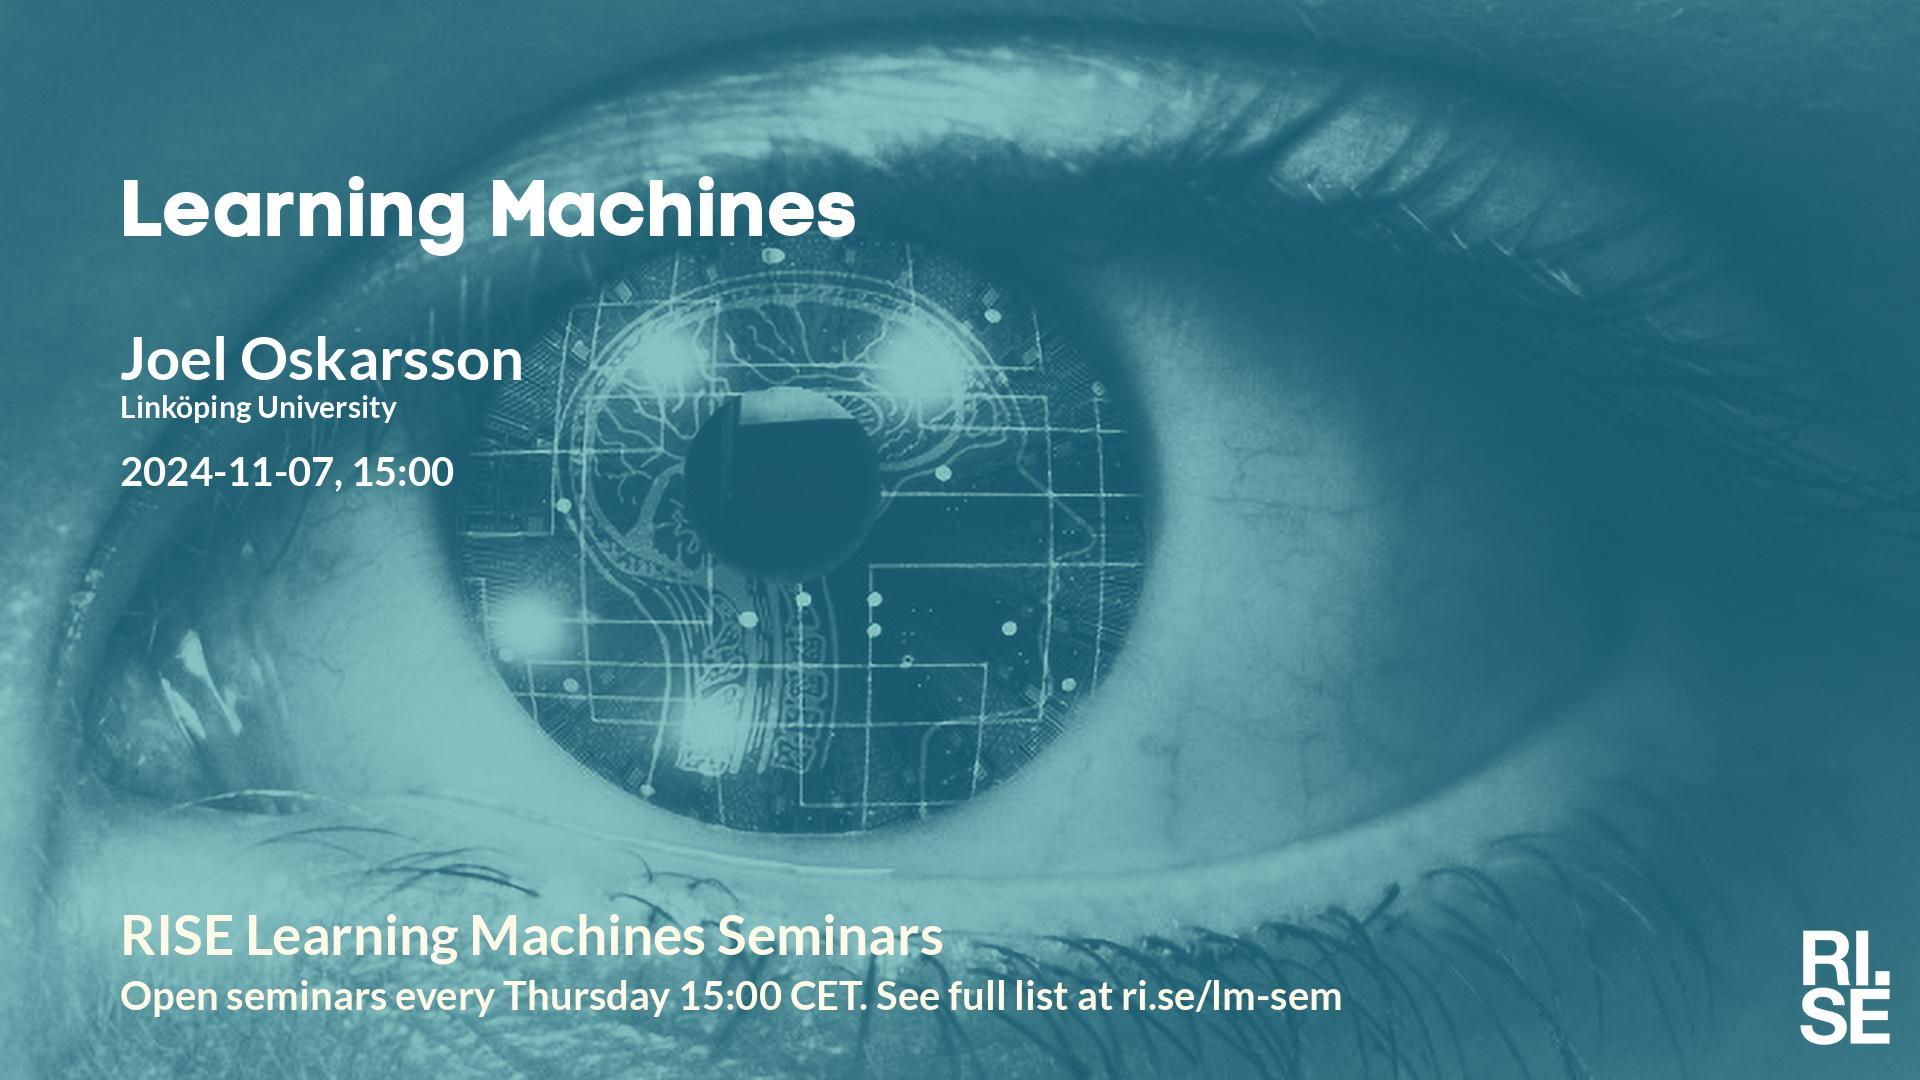
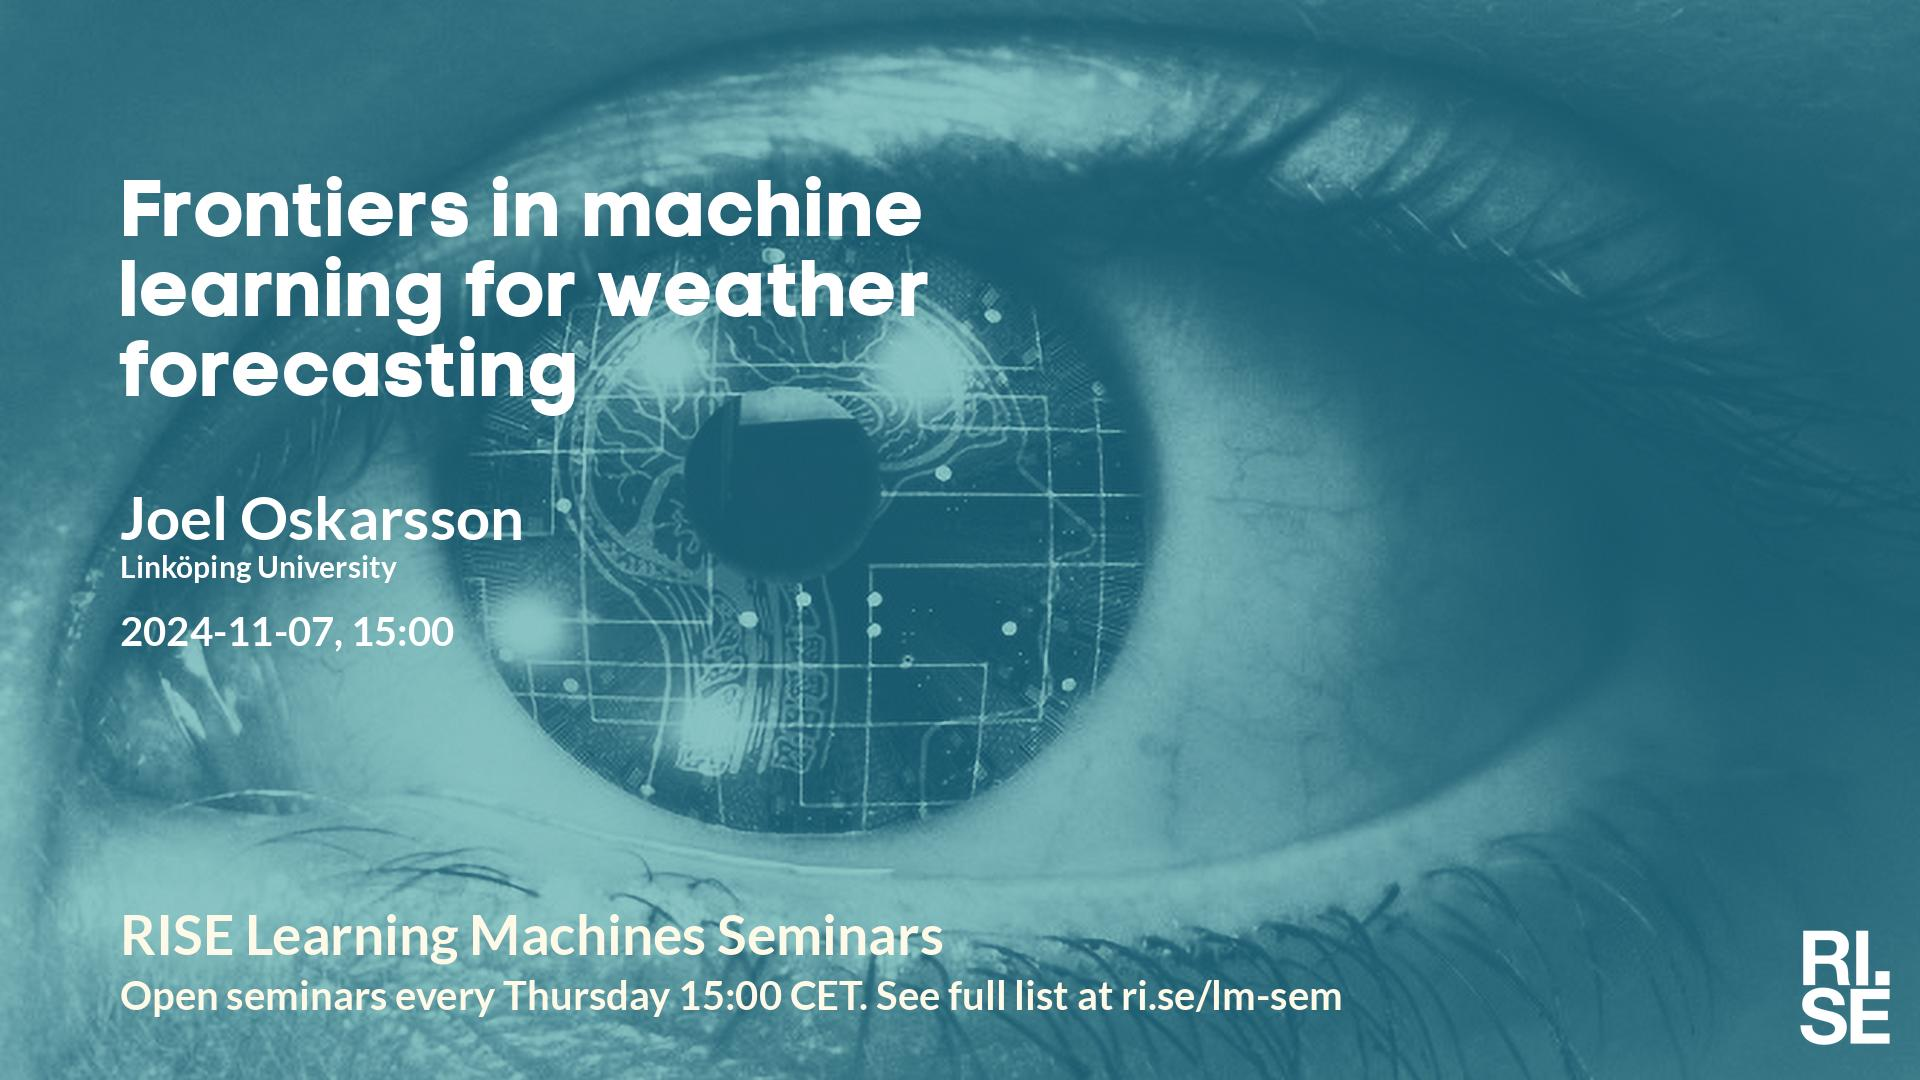
Updated plan on web site.

Changed region(s): [[0.0625, 0.1528, 0.5, 0.6111]]

diff --git a/lm/index.md b/lm/index.md
@@ -5,18 +5,17 @@ metatags: "<meta name=\"robots\" content=\"noindex,nofollow\" />"
 <style type="text/css" scoped>
 td, th {border: 1px solid #ccc; padding: 0.6em;}
 table {border-collapse: collapse;}
-</style># Learning Machines Plan 2024-10-08
+</style># Learning Machines Plan 2024-10-14
 
 | date | speaker                                   | photo | shareable | meeting backdrop | youtube thumbnail | <a title="Speaker, Title, Abstract, Bio, Photo. Strikethrough means we don't have it yet.">comment</a>        |
 | ---- | ----------------------------------------- | ----- | ----- | ----- | ----- | -------------- |
-|  2024-09-19  |  [Mélisande Teng, MILA and Universite de Montreal](2024-09-19.md)  |  [photo](photo-melisande-teng.jpg)  |  [social media ](social-media-melisande-teng.jpg)  |  [meeting backdrop ](meeting-backdrop-melisande-teng.jpg)  |  [youtube thumbnail ](youtube-thumbnail-melisande-teng.jpg)  |  STABP  |
 |  2024-09-26  |  [Charlie Fieseler, University of Vienna](2024-09-26.md)  |  [photo](photo-charlie-fieseler.jpg)  |  [social media ](social-media-charlie-fieseler.jpg)  |  [meeting backdrop ](meeting-backdrop-charlie-fieseler.jpg)  |  [youtube thumbnail ](youtube-thumbnail-charlie-fieseler.jpg)  |  STABP  |
 |  2024-10-03  |  [Jakob Ambsdorf, University of Copenhagen & Pioneer Centre for AI](2024-10-03.md)  |  [photo](photo-jakob-ambsdorf.jpg)  |  [social media ](social-media-jakob-ambsdorf.jpg)  |  [meeting backdrop ](meeting-backdrop-jakob-ambsdorf.jpg)  |  [youtube thumbnail ](youtube-thumbnail-jakob-ambsdorf.jpg)  |  STABP  |
 | <span style="color:red"> 2024-10-10 </span> | <span style="color:red"> CANCELLED </span> | <span style="color:red">  </span> | <span style="color:red">  </span> | <span style="color:red">  </span> | <span style="color:red">  </span> | <span style="color:red"> CANCELLED </span> |
 |  2024-10-17  |  [Matthias Obst, University of Gothenburg](2024-10-17.md)  |  [photo](photo-matthias-obst.jpg)  |  [social media ](social-media-matthias-obst.jpg)  |  [meeting backdrop ](meeting-backdrop-matthias-obst.jpg)  |  [youtube thumbnail ](youtube-thumbnail-matthias-obst.jpg)  |  STABP  |
 |  2024-10-24  |  [Ankit Kariryaa, University of Copenhagen](2024-10-24.md)  |    |  [social media ](social-media-ankit-kariryaa.jpg)  |  [meeting backdrop ](meeting-backdrop-ankit-kariryaa.jpg)  |  [youtube thumbnail ](youtube-thumbnail-ankit-kariryaa.jpg)  |  STAB~~P~~  |
 | <span style="color:red"> 2024-10-31 </span> | <span style="color:red"> Höstlov </span> | <span style="color:red">  </span> | <span style="color:red">  </span> | <span style="color:red">  </span> | <span style="color:red">  </span> | <span style="color:red"> CANCELLED </span> |
-|  2024-11-07  |  [Joel Oskarsson, Linköping University](2024-11-07.md)  |    |  [social media ](social-media-joel-oskarsson.jpg)  |  [meeting backdrop ](meeting-backdrop-joel-oskarsson.jpg)  |  [youtube thumbnail ](youtube-thumbnail-joel-oskarsson.jpg)  |  S~~TABP~~  |
+|  2024-11-07  |  [Joel Oskarsson, Linköping University](2024-11-07.md)  |    |  [social media ](social-media-joel-oskarsson.jpg)  |  [meeting backdrop ](meeting-backdrop-joel-oskarsson.jpg)  |  [youtube thumbnail ](youtube-thumbnail-joel-oskarsson.jpg)  |  ST~~ABP~~  |
 |  2024-11-14  |  [Abdulhakim Abdi, Lund University](2024-11-14.md)  |  [photo](photo-abdulhakim-abdi.jpg)  |  [social media ](social-media-abdulhakim-abdi.jpg)  |  [meeting backdrop ](meeting-backdrop-abdulhakim-abdi.jpg)  |  [youtube thumbnail ](youtube-thumbnail-abdulhakim-abdi.jpg)  |  S~~TAB~~P  |
 |  2024-11-21  |  [Alp Kucukelbir, Columbia University](2024-11-21.md)  |    |  [social media ](social-media-alp-kucukelbir.jpg)  |  [meeting backdrop ](meeting-backdrop-alp-kucukelbir.jpg)  |  [youtube thumbnail ](youtube-thumbnail-alp-kucukelbir.jpg)  |  S~~TABP~~  |
 |  2024-11-28  |  [Alireza Taheri Dehkordi, Lund University](2024-11-28.md)  |    |  [social media ](social-media-alireza-taheri-dehkordi.jpg)  |  [meeting backdrop ](meeting-backdrop-alireza-taheri-dehkordi.jpg)  |  [youtube thumbnail ](youtube-thumbnail-alireza-taheri-dehkordi.jpg)  |  S~~TABP~~  |

diff --git a/lm/2024-11-07.md b/lm/2024-11-07.md
@@ -4,7 +4,7 @@ metatags: "<meta name=\"robots\" content=\"noindex,nofollow\" />"
 ---
 Welcome to this week's Learning Machines seminar.
 
-**Title:** N/A
+**Title:** Frontiers in machine learning for weather forecasting
 
 **Speaker:** Joel Oskarsson, Linköping University
 
@@ -23,7 +23,7 @@ Welcome to this week's Learning Machines seminar.
 * 2024-11-14: Abdulhakim Abdi, Lund University, **digital and physical: Scheelevägen 17, Lund**
 * 2024-11-21: Alp Kucukelbir, Columbia University
 * 2024-11-28: Alireza Taheri Dehkordi, Lund University, **digital and physical: Scheelevägen 17, Lund**
-* 2024-12-05: Amal Nammouchi, Karlstad University and AfriClimate AI
+* 2024-12-12: Amal Nammouchi, Karlstad University and AfriClimate AI
 * All seminars are 15:00 CET.
 
 More information and coming seminars: [https://ri.se/lm-sem](https://ri.se/lm-sem)
